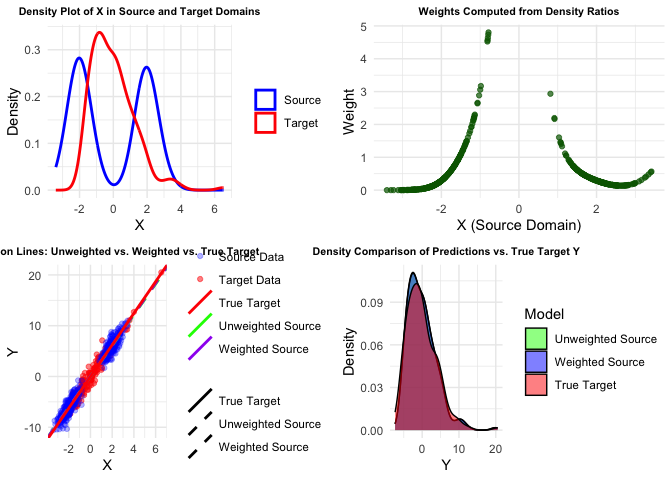
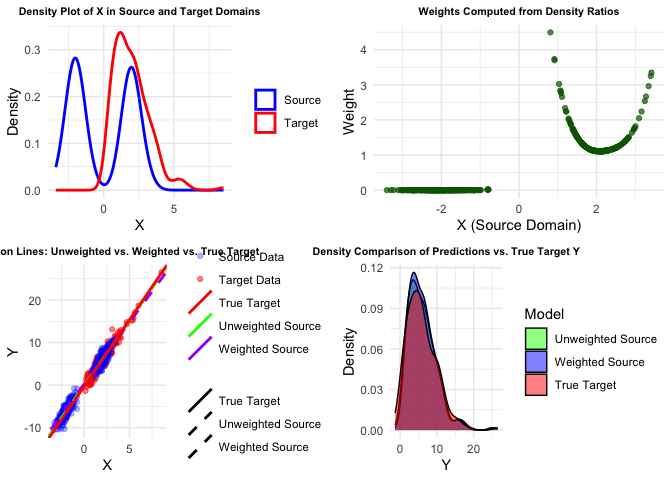
correct the place of seed

diff --git a/toy_example.md b/toy_example.md
@@ -1,11 +1,12 @@
 toy_example
 ================
 Minghe Wang
-2024-11-21
+2024-11-22
 
 # Parametric MLE
 
 ``` r
+set.seed(123)
 # 1. Simulate Source and Target Data
 n_source <- 500      # Number of source samples
 n_target <- 200      # Number of target samples
@@ -278,7 +279,7 @@ X_source <- ifelse(source_component == 1,
 
 # Target domain: Skewed distribution
 # Using a Gamma distribution shifted to have similar range as source
-X_target <- rgamma(n_target, shape = 2, scale = 1) - 2  # Shift to center around 0
+X_target <- rgamma(n_target, shape = 2, scale = 1)
 
 # Conditional distribution: Y = 3X + epsilon, epsilon ~ N(0, 1)
 epsilon_source <- rnorm(n_source, mean = 0, sd = 1)
@@ -332,8 +333,8 @@ print(estimates)
 
     ##               Model Intercept  Slope
     ## 1 Unweighted Source   -0.0143 3.0382
-    ## 2   Weighted Source    0.0250 3.0560
-    ## 3       True Target   -0.0232 3.1165
+    ## 2   Weighted Source    0.3163 2.8921
+    ## 3       True Target   -0.2562 3.1165
 
 ``` r
 # 9. Make Predictions on Target Data Using Both Models
@@ -354,8 +355,8 @@ print(performance)
 ```
 
     ##               Model    MSE
-    ## 1 Unweighted Source 0.9862
-    ## 2   Weighted Source 0.9846
+    ## 1 Unweighted Source 0.9936
+    ## 2   Weighted Source 1.0735
     ## 3       True Target 0.9763
 
 ``` r
